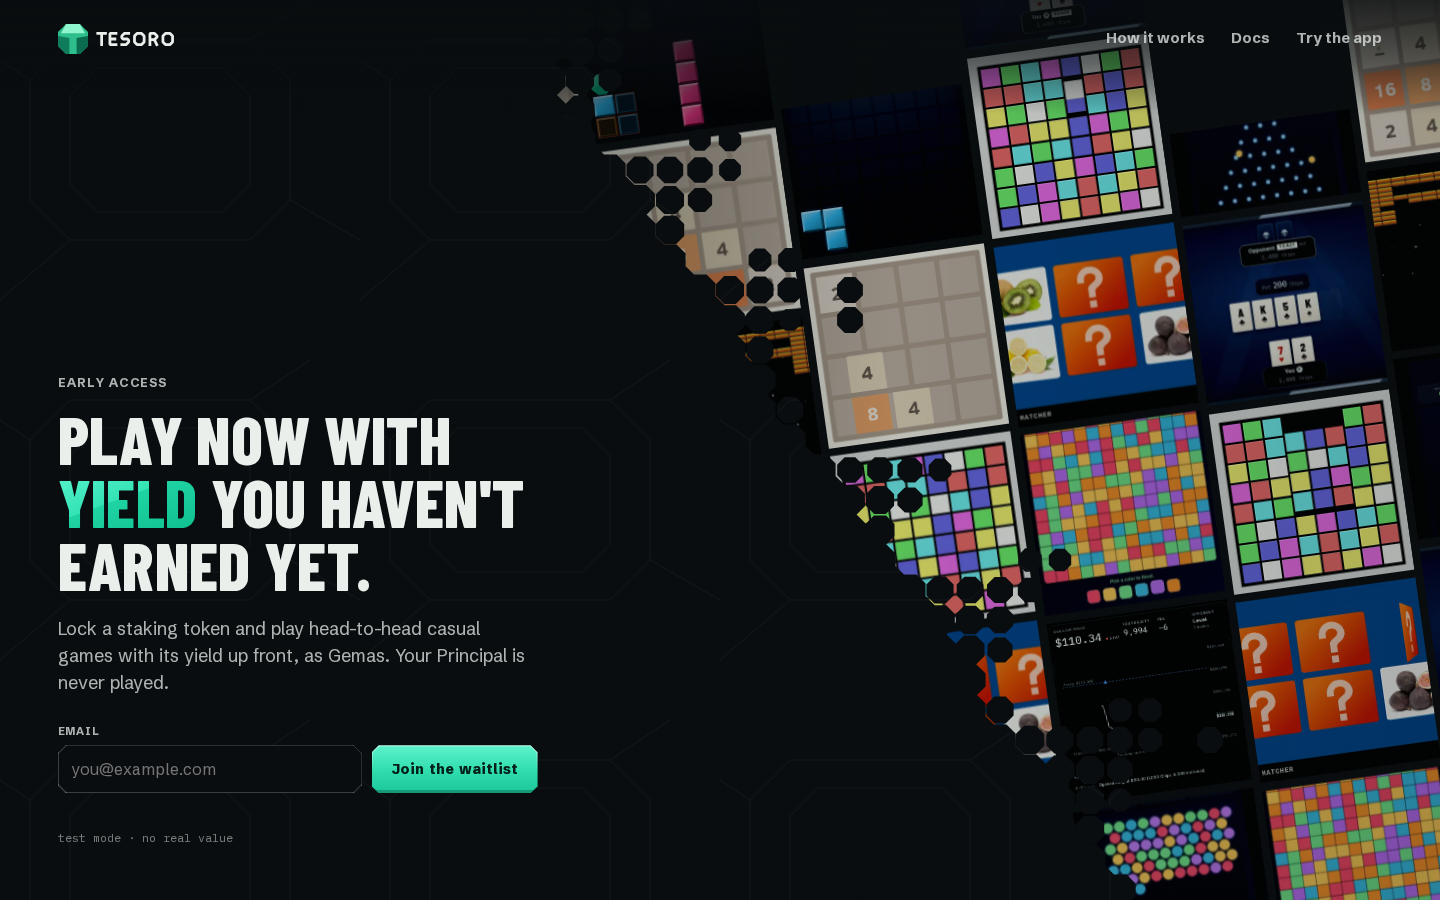
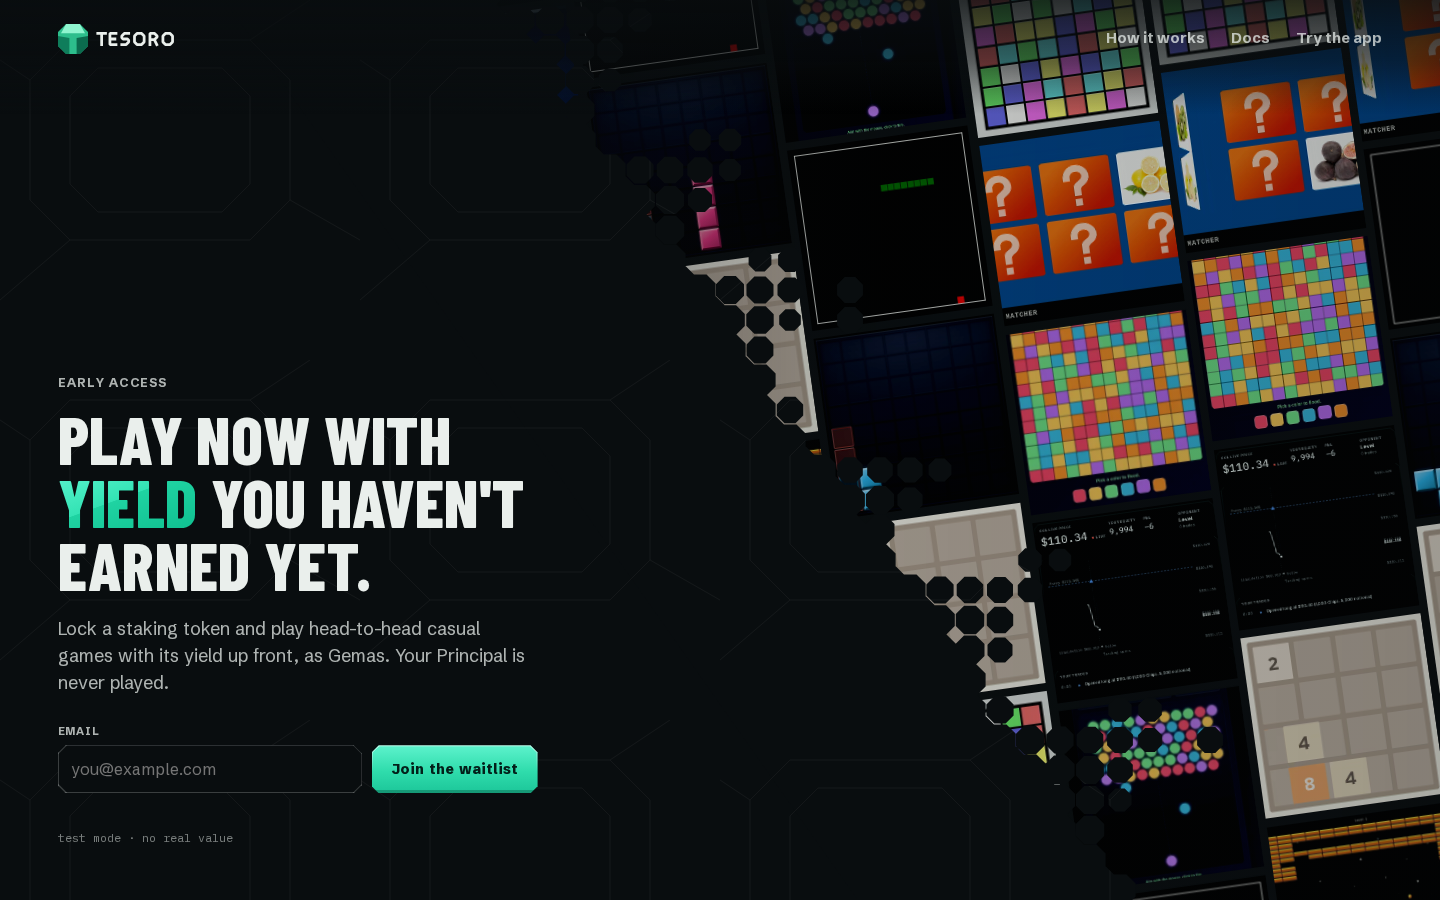
feat(app): waitlist locks the graded divider and fixes bare tops on the wall
Divider: s2 only (gems fused at the foot of a finger, 72% at the tips); the spacing/tuning switchers and params are gone. Wall: columns no longer carry a margin-top that left a strip above their first tile; they differ by speed, direction and start phase only, and reduced motion rests each part-way through its loop. The screenshot script checks the wall at 0/25/50/75% of the loop.

Changed region(s): [[0.375, 0.0, 1.0, 1.0], [0.5938, 0.0933, 0.625, 0.1556]]

diff --git a/app/src/components/waitlist/dividers/octa.ts b/app/src/components/waitlist/dividers/octa.ts
@@ -9,9 +9,6 @@ import { along, bed, dist, geo, polyD, type Frame, type Geo, type Pt } from "./g
  */
 export const TILE_CENTRE = { x: 160, y: 140 };
 
-/** How tightly the growth zone's gems pack: 1 tight, 2 graded, 3 open graded. */
-export type Spacing = 1 | 2 | 3;
-
 export type Field = { g: Geo; frame: Frame; pitch: number; /** solid band, px past the diagonal */ band: number; /** size factor against 1440 wide */ unit: number };
 
 export function field(frame: Frame): Field {
@@ -51,7 +48,7 @@ export type Site = { i: number; j: number; x: number; y: number; d: number; s: n
 export type Growth = { fl: Field; state: Map<number, 1 | 2 | 3>; sites: Site[]; at: (i: number, j: number) => 0 | 1 | 2 | 3; /** how far the growth may reach past the band at this position along the diagonal */ reachAt: (s: number) => number };
 
 /** The grown layout for a frame: which lattice sites carry a gem and of which kind. */
-export function growth(frame: Frame, breakShare = 0.06): Growth {
+export function growth(frame: Frame): Growth {
   const fl = field(frame);
   const { g, pitch, band } = fl;
   const profile = reachProfile(fl);
@@ -93,7 +90,7 @@ export function growth(frame: Frame, breakShare = 0.06): Growth {
   }
   // Breakaway gems: a few, one empty cell beyond a clump tip, never touching one.
   const grown = sites.filter((s) => state.get(key(s.i, s.j)) === 2).length;
-  const want = Math.max(3, Math.round(grown * breakShare));
+  const want = Math.max(3, Math.round(grown * 0.06));
   const near = new Set<number>();
   const taken = (i: number, j: number) => state.has(key(i, j));
   const fused = sites.filter((s) => s.d > band + pitch);
@@ -128,21 +125,20 @@ export function octagon(cx: number, cy: number, flats: number): Pt[] {
   return Array.from({ length: 8 }, (_, k): Pt => [cx + r * Math.cos(Math.PI / 8 + (k * Math.PI) / 4), cy + r * Math.sin(Math.PI / 8 + (k * Math.PI) / 4)]);
 }
 
-/** Smallest gem size (share of the cell) at a finger tip, per spacing; the band and the foot of a finger are fused (1). */
-const TIP = { 1: 0.86, 2: 0.72, 3: 0.62 } as const;
+/** Gem size (share of its cell) at the finger tips; the band and the foot of a finger are fused (1). */
+const TIP = 0.72;
 
-/** A grown gem's size as a share of its cell: `along` is how far out it is on its finger (0 at the band, 1 at the tip). */
-export function gemSize(spacing: Spacing, along: number): number {
-  if (spacing === 1) return TIP[1];
-  return 1 - (1 - TIP[spacing]) * Math.min(Math.max(along, 0), 1);
+/** A grown gem's size as a share of its cell: `along` is how far out it is on its finger (0 at the band, 1 at the tip). Gaps open as the fingers grow out. */
+export function gemSize(along: number): number {
+  return 1 - (1 - TIP) * Math.min(Math.max(along, 0), 1);
 }
 
 /** The ground strip and every gem (as one path), for a frame of this size. The band is fused (diamonds between its gems filled); the growth zone keeps a gap between gems. */
-export function dividerScene(frame: Frame, spacing: Spacing = 2): { ground: string; gems: string } {
-  const gr = growth(frame, spacing === 3 ? 0.1 : 0.06);
+export function dividerScene(frame: Frame): { ground: string; gems: string } {
+  const gr = growth(frame);
   const { pitch, band } = gr.fl;
   // Size share per fused site: the band is solid, grown gems shrink towards the tips.
-  const size = (s: Site, kind: number) => (kind === 1 ? 1.04 : kind === 3 ? 0.86 : gemSize(spacing, (s.d - band) / Math.max(gr.reachAt(s.s), 1)));
+  const size = (s: Site, kind: number) => (kind === 1 ? 1.04 : kind === 3 ? 0.86 : gemSize((s.d - band) / Math.max(gr.reachAt(s.s), 1)));
   const bySite = new Map<string, { kind: number; size: number }>();
   for (const s of gr.sites) {
     const kind = gr.at(s.i, s.j);

diff --git a/app/src/components/waitlist/waitlist.css b/app/src/components/waitlist/waitlist.css
@@ -27,19 +27,16 @@ html:has(.wl), body:has(.wl) { background: #090d0f; }
 .vw { position: absolute; inset: 0; z-index: 1; clip-path: var(--above-wide); }
 .vw-tilt { position: absolute; right: -10%; top: -25%; width: 92%; height: 150%; display: flex; gap: 8px; transform: rotate(-8deg); }
 .vw-col { flex: 1 1 0; min-width: 0; height: 100%; overflow: hidden; }
-.vw-col-1 { margin-top: 18%; }
-.vw-col-2 { margin-top: 6%; }
-.vw-col-3 { margin-top: 24%; }
-.vw-col-4 { margin-top: 10%; }
-.vw-col-5 { margin-top: 30%; }
-.vw-col-6 { margin-top: 14%; }
+/* A column's track is its clip list twice over (8 tiles a copy, taller than the column), moving by exactly one copy, so it
+   covers the column top to bottom at every moment of the loop. Columns differ in speed and direction (even ones run
+   backwards, from -50% to 0), and in where they start in the loop (a negative delay), never by an offset that would leave the top bare. */
 .vw-track { animation: vw-drift 150s linear infinite; }
-.vw-col-1 .vw-track { animation-direction: reverse; animation-duration: 175s; }
+.vw-col-1 .vw-track { animation-direction: reverse; animation-duration: 175s; animation-delay: -61s; }
 .vw-col-2 .vw-track { animation-duration: 135s; animation-delay: -40s; }
-.vw-col-3 .vw-track { animation-direction: reverse; animation-duration: 165s; animation-delay: -70s; }
+.vw-col-3 .vw-track { animation-direction: reverse; animation-duration: 165s; animation-delay: -97s; }
 .vw-col-4 .vw-track { animation-duration: 190s; animation-delay: -20s; }
-.vw-col-5 .vw-track { animation-direction: reverse; animation-duration: 155s; animation-delay: -55s; }
-.vw-col-6 .vw-track { animation-duration: 180s; animation-delay: -90s; }
+.vw-col-5 .vw-track { animation-direction: reverse; animation-duration: 155s; animation-delay: -73s; }
+.vw-col-6 .vw-track { animation-duration: 180s; animation-delay: -125s; }
 .vw-clip { display: block; width: 100%; height: auto; aspect-ratio: 1; object-fit: cover; margin-bottom: 8px; background: #0c1215; }
 /* Without JavaScript browsers draw their own player controls on a video: the wall has none. */
 .vw-clip::-webkit-media-controls, .vw-clip::-webkit-media-controls-enclosure { display: none !important; }
@@ -64,10 +61,6 @@ html:has(.wl), body:has(.wl) { background: #090d0f; }
 .dv-ssr { transition: opacity 0.6s ease-out; }
 .dv-live { animation: dv-in 0.6s ease-out both; }
 .wl:has(.dv-live) .dv-ssr { opacity: 0; }
-/* Temporary growth switcher (?s=1..3). */
-.dv-switch { position: fixed; z-index: 60; right: 14px; bottom: 14px; display: flex; gap: 6px; padding: 6px; background: rgba(9, 13, 15, 0.86); border: 1px solid var(--line-2); }
-.dv-switch button { min-width: 34px; min-height: 34px; padding: 0 8px; border: 0; background: var(--raised-2); color: var(--fg); font-weight: 800; --edge: var(--edge-2); }
-.dv-switch button[aria-pressed="true"] { background: var(--fg); color: #090d0f; }
 @keyframes dv-in { from { opacity: 0; } to { opacity: 1; } }
 
 /* Frame content */
@@ -126,5 +119,12 @@ html:has(.wl), body:has(.wl) { background: #090d0f; }
 
 @media (prefers-reduced-motion: reduce) {
   .vw-track, .dv-live { animation: none; }
+  /* Still, but not in lockstep: each column rests part of the way through its loop (0 to 50%, so it always covers). */
+  .vw-col-1 .vw-track { transform: translateY(-17%); }
+  .vw-col-2 .vw-track { transform: translateY(-31%); }
+  .vw-col-3 .vw-track { transform: translateY(-9%); }
+  .vw-col-4 .vw-track { transform: translateY(-43%); }
+  .vw-col-5 .vw-track { transform: translateY(-24%); }
+  .vw-col-6 .vw-track { transform: translateY(-37%); }
   .dv-ssr { transition: none; }
 }

diff --git a/app/src/components/waitlist/dividers/octa.test.ts b/app/src/components/waitlist/dividers/octa.test.ts
@@ -1,6 +1,6 @@
 import { describe, expect, it } from "vitest";
 import { LINES } from "../geometry";
-import { dividerScene, gemSize, growth, type Spacing } from "./octa";
+import { dividerScene, gemSize, growth } from "./octa";
 import type { Frame } from "./geo";
 
 const FRAMES: Frame[] = [
@@ -8,7 +8,6 @@ const FRAMES: Frame[] = [
   { w: 1280, h: 720, kind: "wide" },
   { w: 390, h: 844, kind: "tall" },
 ];
-const SPACINGS: Spacing[] = [1, 2, 3];
 
 describe("the split", () => {
   it("divides the wide frame about in half", () => {
@@ -41,33 +40,21 @@ describe("the growth", () => {
       for (const s of gr.sites) if (s.d <= band) expect(gr.at(s.i, s.j)).toBe(1);
     });
 
-    for (const sp of SPACINGS) {
-      it(`${name}, spacing ${sp}: finite shapes, the same ones each time`, () => {
-        const a = dividerScene(f, sp);
-        expect(a.gems.length).toBeGreaterThan(2000);
-        expect(a.gems + a.ground).not.toMatch(/NaN|Infinity/);
-        expect(dividerScene(f, sp)).toEqual(a);
-      });
-    }
+    it(`${name}: finite shapes, the same ones each time`, () => {
+      const a = dividerScene(f);
+      expect(a.gems.length).toBeGreaterThan(2000);
+      expect(a.gems + a.ground).not.toMatch(/NaN|Infinity/);
+      expect(dividerScene(f)).toEqual(a);
+    });
   }
-
-  it("more breakaway gems with the open spacing", () => {
-    const f = FRAMES[0];
-    const count = (sp: Spacing) => (dividerScene(f, sp).gems.match(/M/g) ?? []).length;
-    expect(count(3)).toBeGreaterThanOrEqual(count(2));
-  });
 });
 
 describe("gem size", () => {
-  it("tight is uniform at 86%", () => {
-    for (const t of [0, 0.5, 1]) expect(gemSize(1, t)).toBe(0.86);
-  });
-  it("graded shrinks from fused to 72% at the tips, open graded to 62%", () => {
-    expect(gemSize(2, 0)).toBe(1);
-    expect(gemSize(2, 1)).toBeCloseTo(0.72);
-    expect(gemSize(3, 0)).toBe(1);
-    expect(gemSize(3, 1)).toBeCloseTo(0.62);
-    expect(gemSize(2, 0.5)).toBeGreaterThan(gemSize(2, 1));
-    expect(gemSize(2, 2)).toBeCloseTo(0.72);
+  it("is fused at the foot of a finger and opens to 72% at the tip", () => {
+    expect(gemSize(0)).toBe(1);
+    expect(gemSize(1)).toBeCloseTo(0.72);
+    expect(gemSize(0.5)).toBeGreaterThan(gemSize(1));
+    expect(gemSize(2)).toBeCloseTo(0.72);
+    expect(gemSize(-1)).toBe(1);
   });
 });

diff --git a/app/src/components/waitlist/DividerLive.tsx b/app/src/components/waitlist/DividerLive.tsx
@@ -3,7 +3,6 @@
 import { useSyncExternalStore } from "react";
 import { DividerSvg } from "./DividerSvg";
 import type { Frame, Kind } from "./dividers/geo";
-import type { Spacing } from "./dividers/octa";
 
 const subscribe = (notify: () => void) => {
   addEventListener("resize", notify);
@@ -15,46 +14,11 @@ const frameKey = () => {
   return el ? `${el.clientWidth}x${el.clientHeight}x${matchMedia("(max-width: 640px)").matches ? "tall" : "wide"}` : "";
 };
 
-const subscribeSpacing = (notify: () => void) => {
-  addEventListener("popstate", notify);
-  return () => removeEventListener("popstate", notify);
-};
-/** `?s=1|2|3` picks a spacing while the founder compares them; empty otherwise. */
-const spacingParam = () => new URLSearchParams(location.search).get("s") ?? "";
-
 /** The divider laid out for the frame's real size. It fades in over the server's design-size layout. */
 export function DividerLive() {
   const key = useSyncExternalStore(subscribe, frameKey, () => "");
-  const sp = useSyncExternalStore(subscribeSpacing, spacingParam, () => "");
   if (!key) return null;
   const [w, h, kind] = key.split("x");
   const frame: Frame = { w: Number(w), h: Number(h), kind: kind as Kind };
-  const spacing = (["1", "2", "3"].includes(sp) ? Number(sp) : 2) as Spacing;
-  return (
-    <>
-      <DividerSvg key={spacing} frame={frame} spacing={spacing} id="dv-live" className="dv dv-live" />
-      {sp && <Switcher spacing={spacing} />}
-    </>
-  );
-}
-
-const NAMES = { 1: "Tight", 2: "Graded", 3: "Open graded" } as const;
-
-/** Temporary: only while `s` is in the URL. */
-function Switcher({ spacing }: { spacing: Spacing }) {
-  const pick = (k: Spacing) => {
-    const url = new URL(location.href);
-    url.searchParams.set("s", String(k));
-    history.replaceState(null, "", url);
-    dispatchEvent(new PopStateEvent("popstate"));
-  };
-  return (
-    <div className="dv-switch" role="group" aria-label="Gem spacing">
-      {([1, 2, 3] as const).map((k) => (
-        <button key={k} type="button" className="cut cut-chip" aria-pressed={spacing === k} title={NAMES[k]} onClick={() => pick(k)}>
-          {k}
-        </button>
-      ))}
-    </div>
-  );
+  return <DividerSvg frame={frame} id="dv-live" className="dv dv-live" />;
 }

diff --git a/app/src/components/waitlist/DividerSvg.tsx b/app/src/components/waitlist/DividerSvg.tsx
@@ -1,4 +1,4 @@
-import { dividerScene, type Spacing } from "./dividers/octa";
+import { dividerScene } from "./dividers/octa";
 import type { Frame } from "./dividers/geo";
 
 /**
@@ -6,8 +6,8 @@ import type { Frame } from "./dividers/geo";
  * origin so the texture runs on across them. Plain markup (no hooks), so the server can draw it too. `stretch` fits a
  * design-size layout to whatever frame it lands in (used for the first paint and without JavaScript).
  */
-export function DividerSvg({ frame, id, className, stretch = false, spacing = 2 }: { frame: Frame; id: string; className: string; stretch?: boolean; spacing?: Spacing }) {
-  const { ground, gems } = dividerScene(frame, spacing);
+export function DividerSvg({ frame, id, className, stretch = false }: { frame: Frame; id: string; className: string; stretch?: boolean }) {
+  const { ground, gems } = dividerScene(frame);
   return (
     <svg className={className} viewBox={`0 0 ${frame.w} ${frame.h}`} preserveAspectRatio={stretch ? "none" : undefined} aria-hidden focusable="false">
       <defs>

diff --git a/DESIGN.md b/DESIGN.md
@@ -210,8 +210,7 @@ The home page until launch; the landing it replaced is `/welcome`. Code: `app/sr
 - **Layout.** The form is bottom left, the panel's gems break into game footage that fills the other half. The diagonal is one constant (`waitlist/geometry.ts`): the video wall's `clip-path`, the solid floor under the form and the divider are all derived from it, so they line up at every size. Phone: footage in the top ~40%, the form below; the top bar is only the logo and "Try the app" (How it works and Docs sit in a small row under the form), and a top scrim keeps the bar readable over footage at every width.
 - **Background texture.** The floor (everything below the diagonal) carries the landing's octagon outline texture: the same SVG as `--lp-texture` in `landing.css` at the same 360px scale and opacity (repeated in `waitlist.css` as `--wl-texture`, dark version, because the light theme redefines the landing's variable and this frame stays dark).
 - **The split.** The diagonal runs from the top edge at 28% across to the bottom edge at 72%, so the dark panel and the video wall each take half of the wide frame (phone: a flatter line across the middle, top half footage). One constant (`geometry.ts` `LINES`) drives the wall's clip-path, the floor and the divider.
-- **The divider is the panel growing into the footage** (`Divider.tsx`, `dividers/octa.ts`). Small flat octagon gems in exactly the panel's colour and texture (an SVG pattern anchored at the frame origin, so the texture runs on across them), no outlines, shadows, jewel colours or hollow cells. They sit on a 30px grid (20px on a phone) that divides the texture tile and is centred on its octagon centres, so texture lines run along gem rows. A solid, fused band (~76px past the line) is the panel's edge. From it, 6 long fingers (3 on a phone) of connected gems grow outward (deterministic, Eden-like: a seeded reach profile along the diagonal says how far each stretch may grow, only sites linked edge to edge to the band survive, so the tips are ragged and gem-shaped), at most about 260px past the line, plus a few breakaway gems (about 6% of the growth) one empty cell beyond a tip. In the growth zone the gems are not fused: each is drawn smaller than its cell so a thin gap of footage shows between neighbours, the centres staying on the lattice. The corner diamonds are filled only in the band and where gems still fill their cell. The floor's straight edge is pulled back under the band (`INSET`, `clipBelowInset`). Static; the exact layout only fades in over the first paint, and not at all under reduced motion.
-- **Gem spacing (under review).** `/?s=1|2|3` with a small switcher (only while `s` is present): 1 tight (every growth gem at 86% of its cell), 2 graded (default; 100% where a finger meets the band, 72% at the tips), 3 open graded (100% to 62%, and up to about 10% breakaway gems). Once one is picked, remove the other two and the switcher (`DividerLive.tsx`).
+- **The divider is the panel growing into the footage** (`Divider.tsx`, `dividers/octa.ts`). Small flat octagon gems in exactly the panel's colour and texture (an SVG pattern anchored at the frame origin, so the texture runs on across them), no outlines, shadows, jewel colours or hollow cells. They sit on a 30px grid (20px on a phone) that divides the texture tile and is centred on its octagon centres, so texture lines run along gem rows. A solid, fused band (~76px past the line) is the panel's edge. From it, 6 long fingers (3 on a phone) of connected gems grow outward (deterministic, Eden-like: a seeded reach profile along the diagonal says how far each stretch may grow, only sites linked edge to edge to the band survive, so the tips are ragged and gem-shaped), at most about 260px past the line, plus a few breakaway gems (about 6% of the growth) one empty cell beyond a tip. In the growth zone the gems are not fused: each starts at its full cell where a finger leaves the band and shrinks to 72% at the tips, so the gaps of footage between neighbours open as the fingers grow out, the centres staying on the lattice. The corner diamonds are filled only in the band and where gems still fill their cell. The floor's straight edge is pulled back under the band (`INSET`, `clipBelowInset`). Static; the exact layout only fades in over the first paint, and not at all under reduced motion.
 - **No JavaScript.** The server draws the divider for a 1440x900 and a 390x844 frame, stretched to the screen (`preserveAspectRatio="none"`; CSS shows the one that fits), so the first paint and a page without JavaScript have the pattern. After hydration the layout for the real frame size fades in over it (`DividerLive.tsx`).
 - **Video wall.** Eleven screen recordings of games being played, square tiles: Tesoro's three Games (Block Puzzle, Hold'em, Trading Duel, recorded from the app's practice mode) and eight open-source casual web games (2048, a match-3, bubble shooter, breakout, a memory game, snake, plinko, color flood; all MIT, cloned outside the repo into `art-source/waitlist/games`, never vendored; licences and repos in `art-source/waitlist/sources.json` and `CREDITS.md`; none copies a trademarked title or look). Recorded by `scripts/record-waitlist-games.mjs` (CDP screencast, scripted or bot play), turned into `public/art/waitlist/clip-N.{webm,mp4,webp}` by `scripts/import-waitlist-clips.mjs`. Tilted columns drift in opposite directions: 7 columns on a wide screen, 6 on a laptop, 5 on a tablet, 4 on a phone (tiles 140-220px). `buildColumns` (`clips.ts`, tested) never puts a clip next to itself. `muted loop playsInline preload="none"`, WebM then MP4, WebP poster. At most 10 tiles play at once (6 on a phone): only those above the diagonal and on screen, the first four on load and the rest when the browser is idle; the others show their poster. Reduced motion or Save-Data: posters only, no drift.
 - **Join is the page's single primary CTA**, drawn as the landing's Launch app button (`btn money cut cut-btn`). This is the one place emerald is a form submit rather than Gemas moving: the page has no Gemas, and the button is the only action it asks for. "Try the app" in the top bar is plain text.
